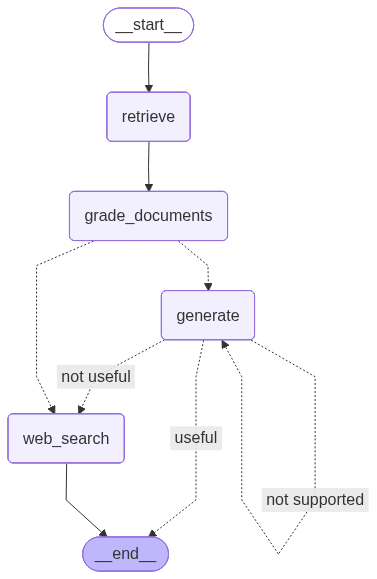
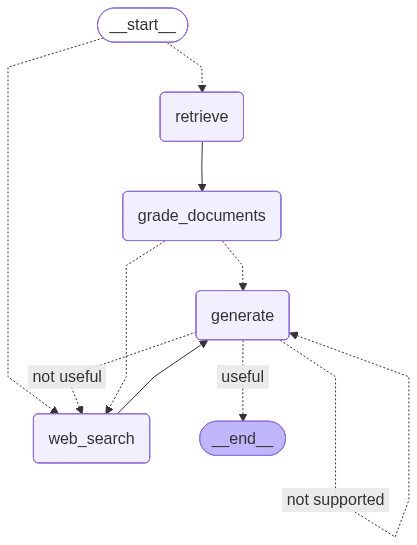
Implemented Self RAG

diff --git a/graph/graph.py b/graph/graph.py
@@ -5,6 +5,7 @@ from langgraph.graph import END, StateGraph
 from graph.chains.answer_grader import answer_grader
 from graph.chains.hallucination_grader import hallucination_grader
 from graph.consts import RETRIEVE, GENERATE, GRADE_DOCUMENTS, WEB_SEARCH
+from graph.chains.router import RouteQuery, question_router
 from graph.nodes import retrieve, generate, grade_documents, web_search
 from graph.state import GraphState
 
@@ -52,13 +53,38 @@ def grade_generation_grounded_in_documents_and_question(state: GraphState)->str:
     else:
         print("---Decision: Generation is not grounded in documents---")
         return "not supported"
-    
+
+def route_question(state:GraphState) -> str:
+    print("---Routing Question---")
+    question = state["question"]
+
+    source: RouteQuery = question_router.invoke(
+        {
+            "question": question
+        }
+    )
+
+    if source.datasource == WEB_SEARCH:
+        print("---Decision: Question requires web search---")
+        return WEB_SEARCH
+    elif source.datasource == "vectorstore":
+        print("---Decision: Question can be answered with retrieval---")
+        return RETRIEVE 
+
 workflow = StateGraph(GraphState)
 
 workflow.add_node(RETRIEVE, retrieve)
 workflow.add_node(GRADE_DOCUMENTS, grade_documents)
 workflow.add_node(GENERATE, generate)
 workflow.add_node(WEB_SEARCH, web_search)
+
+workflow.set_conditional_entry_point(
+    route_question,
+    {
+        RETRIEVE: RETRIEVE,
+        WEB_SEARCH: WEB_SEARCH
+    },
+)
 
 workflow.set_entry_point(RETRIEVE)
 workflow.add_edge(RETRIEVE, GRADE_DOCUMENTS)
@@ -79,8 +105,7 @@ workflow.add_conditional_edges(
         "not supported": GENERATE
     },
 )
-workflow.add_edge(WEB_SEARCH, END)
-workflow.add_edge(GENERATE, END)
+workflow.add_edge(WEB_SEARCH, GENERATE)
 
 app = workflow.compile()
 

diff --git a/graph/chains/router.py b/graph/chains/router.py
@@ -1,0 +1,31 @@
+from typing import Literal
+
+from langchain_core.prompts import ChatPromptTemplate
+from pydantic import BaseModel, Field
+from langchain_ollama import ChatOllama
+
+class RouteQuery(BaseModel):
+    """Route a user query to the most relevant datasource."""
+
+    datasource:Literal["vectorstore", "websearch"] = Field(
+        description = "Given a user question, choose to route to 'vectorstore' or 'websearch' based on which datasource is more likely to have the answer."
+    )
+
+llm = ChatOllama(model="llama3.2:latest", temperature=0)
+structured_llm_router = llm.with_structured_output(RouteQuery)
+
+system = """You are an intelligent router that determines the best datasource to answer a user question. \n
+    You have access to two datasources: a vectorstore containing documents, and a websearch tool. \n
+    If the user question is specific and likely to be answered by existing documents, route to the vectorstore. \n
+    If the user question is broad, timely, or likely to require up-to-date information, route to the websearch tool. \n
+    Always choose the datasource that is most likely to provide a useful answer to the user's question."""
+
+route_prompt = ChatPromptTemplate.from_messages(
+    [
+        ("system", system),
+        ("human", "User question: {question}")
+    ]
+)
+
+question_router = route_prompt | structured_llm_router 
+

diff --git a/graph/chains/tests/test_chains.py b/graph/chains/tests/test_chains.py
@@ -13,8 +13,8 @@ load_dotenv()
 from graph.chains.retrieval_grade import retrieval_grader, GradeDocuments
 from graph.chains.hallucination_grader import hallucination_grader, GradeHallucinations
 from graph.chains.generation import generation_chain
+from graph.chains.router import question_router, RouteQuery
 from ingestion import retriever
-
 
 
 # def test_retrieval_grader_answer_yes() -> None:
@@ -71,7 +71,7 @@ def test_hallucination_grader_answer_yes() -> None:
             "generation": generation
         }
     )
-    assert res.binary_score
+    assert res.binary_score.lower() == "yes"
 
    
 def test_hallucination_grader_answer_no() -> None:
@@ -84,4 +84,16 @@ def test_hallucination_grader_answer_no() -> None:
             "generation": "In order to make pizza we need to first start with the dough",
         }
     )
-    assert not res.binary_score
+    assert res.binary_score.lower() == "no"
+
+def test_route_to_vectorstore() -> None:
+    question = "agent memory"
+
+    res: RouteQuery = question_router.invoke({"question": question})
+    assert res.datasource == "vectorstore"
+
+def test_route_to_websearch() -> None:
+    question = "What is the pizza?"
+
+    res: RouteQuery = question_router.invoke({"question": question})
+    assert res.datasource == "websearch"
